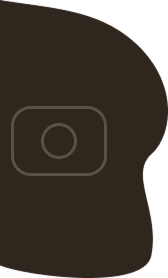
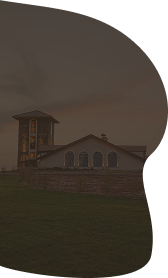
.

diff --git a/components/Home.tsx b/components/Home.tsx
@@ -3,7 +3,7 @@ import Image from "next/image";
 import { TimeBox } from "./TimeBox";
 import { useEffect, useState } from "react";
 import { MusicPlayer } from "./music";
-import { anim, name, txt1, txt2, txt3, txt4 } from "@/data/data";
+import { anim, name, txt1, txt2, txt3, txt4, txt5 } from "@/data/data";
 import { motion } from "framer-motion";
 import AttendanceGuests from "./RSVP";
 import { Program } from "./Program";
@@ -12,17 +12,42 @@ import { Footer } from "./footer";
 import { Calendar } from "./Calendar";
 
 export function Home() {
+  const [openEnvelope, setOpenEnvelope] = useState(false);
   const [isPlaying, setIsPlaying] = useState(false);
+
+  useEffect(() => {
+    if (openEnvelope) {
+      setIsPlaying(true);
+    } else {
+      setIsPlaying(false);
+    }
+  }, [openEnvelope]);
 
   return (
     <div
-      className={`text-center overflow-hidden  FontArTarumianBarakU  bg-[#FFFDFB]`}
+      className={`${openEnvelope ? "" : "relative h-screen"} text-center overflow-hidden  FontArTarumianBarakU  bg-[#FFFDFB]`}
     >
+      
+      <div
+        className={`${openEnvelope ? "animate-bounceYB" : ""} bg-center bg-cover z-51 w-[160vw] h-[160vw] rounded-4xl absolute left-1/2 top-[0%]  -translate-x-1/2 -translate-y-1/2 rotate-45  shadow-2xl `}
+        style={{ backgroundImage: `url("/envelope.png")` }}
+      ></div>
+      <div
+        className={`${openEnvelope ? "animate-bounceYT" : ""} bg-center bg-cover z-50 w-[160vw] h-[160vw] rounded-4xl absolute left-1/2 -bottom-[60%] -translate-x-1/2 -translate-y-1/2 rotate-45  `}
+        style={{ backgroundImage: `url("/envelope.png")` }}
+      ></div>
+      <img
+        src="/forenvelope.png"
+        alt="envelop"
+        onClick={() => setOpenEnvelope(true)}
+        className={`${openEnvelope ? "opacity-0" : ""} transition-all duration-100  absolute left-1/2 top-1/2 -translate-x-1/2 -translate-y-1/2  cursor-pointer  md:w-50 md:h-50 z-60 w-30 h-30 `}
+      />
+
       {/* music button */}
       <div>
         <button
           onClick={() => setIsPlaying(!isPlaying)}
-          className="fixed z-100 p-1  rounded-2xl bg-[#fffdfb2f]  right-7 top-7 w-20  h-20 flex justify-center items-center"
+          className="fixed z-49 p-1  rounded-2xl bg-[#fffdfb2f]  right-7 top-7 w-20  h-20 flex justify-center items-center"
         >
           <Image
             src="/icon2.png"
@@ -275,6 +300,13 @@ export function Home() {
         <TimeBox />
 
         {/* erb asen teqst */}
+        <motion.p
+          {...anim}
+          className="FontArTarumianBarakU mb-20 text-sovorakan  text-3xl mt-10"
+        >
+          {txt5}
+        </motion.p>
+
         <motion.p
           {...anim}
           className="FontArTarumianBarakU mb-20 text-sovorakan  text-3xl mt-10"

diff --git a/app/globals.css b/app/globals.css
@@ -152,7 +152,6 @@
 
 
 
-
 /* ....................CRAR................ */
 
 
@@ -181,25 +180,31 @@
 }
 
 @media (max-width: 768px) {
-  @keyframes bounceY {
+  @keyframes bounceYB {
     0% {
-      transform: translateY(0);
-      width: 280px;
-      height: 180px;
-      z-index: 6;
-    }
-    50% {
-      transform: translateY(-200px);
-      z-index: 6;
+      top: 10%;
     }
     100% {
-      width: 280px;
-      height: 180px;
-      z-index: 50;
+      top: -100%;
+      display: none;
     }
   }
 
-  .animate-bounceY {
-    animation: bounceY 2s ease;
+  .animate-bounceYB {
+    animation: bounceYB 2s ease forwards;
+  }
+
+  @keyframes bounceYT {
+    0% {
+      bottom: -60%;
+    }
+    100% {
+      bottom:-180%;
+      display: none;
+    }
+  }
+
+  .animate-bounceYT {
+    animation: bounceYT 2s ease forwards;
   }
 }

diff --git a/data/data.tsx b/data/data.tsx
@@ -21,37 +21,37 @@ export const txt4 =
   "Մասնակցության մասին\n  Խնդրում ենք\n Տեղեկացնել մինչև \n Հունիսի 10-ը";
 
 export const txt5 =
-  "Վան Արդիում նախատեսվում է նկարահանում. սիրով հրավիրում ենք հյուրերին միանալ մեզ ու միասին գեղեցիկ հիշողություններ կերտել։\n\nՄիևնույն ժամանակ Wine Corner-ում մյուս հյուրերի համար կլինի հյուրասիրություն և հաճելի երաժշտություն 🤍";
+  "Վան Արդիում\n նախատեսվում է նկարահանում. սիրով հրավիրում ենք հյուրերին միանալ մեզ ու միասին գեղեցիկ հիշողություններ կերտել։\n\nՄիևնույն ժամանակ\n Wine Corner-ում մյուս հյուրերի համար կլինի հյուրասիրություն և հաճելի երաժշտություն\n 🤍";
 
 export const program: any = [
   {
     time: "09:00",
     title: "Փեսայի տուն",
-    address: "Երևան Ջրվեժ Թևոսյան 23 բն14",
+    address: "https://yandex.com/maps/10262/yerevan/house/YE0Ycw5iTkAAQFpqfX15d3piZw==/?ll=44.592757%2C40.186613&z=16",
     img: '/jam1.png'
   },
   {
     time: "11:00",
     title: "Հարսնացուի տուն",
-    address: "Քաղաք Արմավիր Բաղրամյան 21/1 բն 39",
+    address: "https://yandex.com/maps/10257/armavir/house/YE0YdgVkT0QAQFpqfX10dn9mZw==/?ll=44.024618%2C40.157353&z=16",
     img: '/jam2.png'
   },
   {
     time: "13:30",
     title: "Եկեղեցի",
-    address: "Տեղերի Վանք",
+    address: "https://yandex.com/maps/org/204381722709/?ll=44.237644%2C40.334148&z=13",
     img: '/jam3.png'
   },
   {
     time: "15:30",
     title: "Նկարահանում ",
-    address: "Վան Արդի",
+    address: "https://yandex.com/maps/org/149834662356/?ll=44.073472%2C40.470125&z=7",
     img: '/jam4.png'
   },
   {
     time: "17:00",
     title: "Հարսանյաց սրահ",
-    address: "Wine Corner",
+    address: "https://yandex.com/maps/org/139778273402/?ll=44.355975%2C40.284220&z=11",
     img: '/jam5.png'
   },
 ];

diff --git a/components/Program.tsx b/components/Program.tsx
@@ -28,7 +28,7 @@ export function Program() {
               />
 
               <Link
-                href={`${el.address ? `https://www.google.com/maps/search/${el.address}` : "#"}`}
+                href={el.address}
                 className={`${i % 2 == 0 ? "text-start" : "text-end"} px-7 self-center `}
               >
                 <motion.h2 {...anim} className="tracking-[25%] text-4xl">